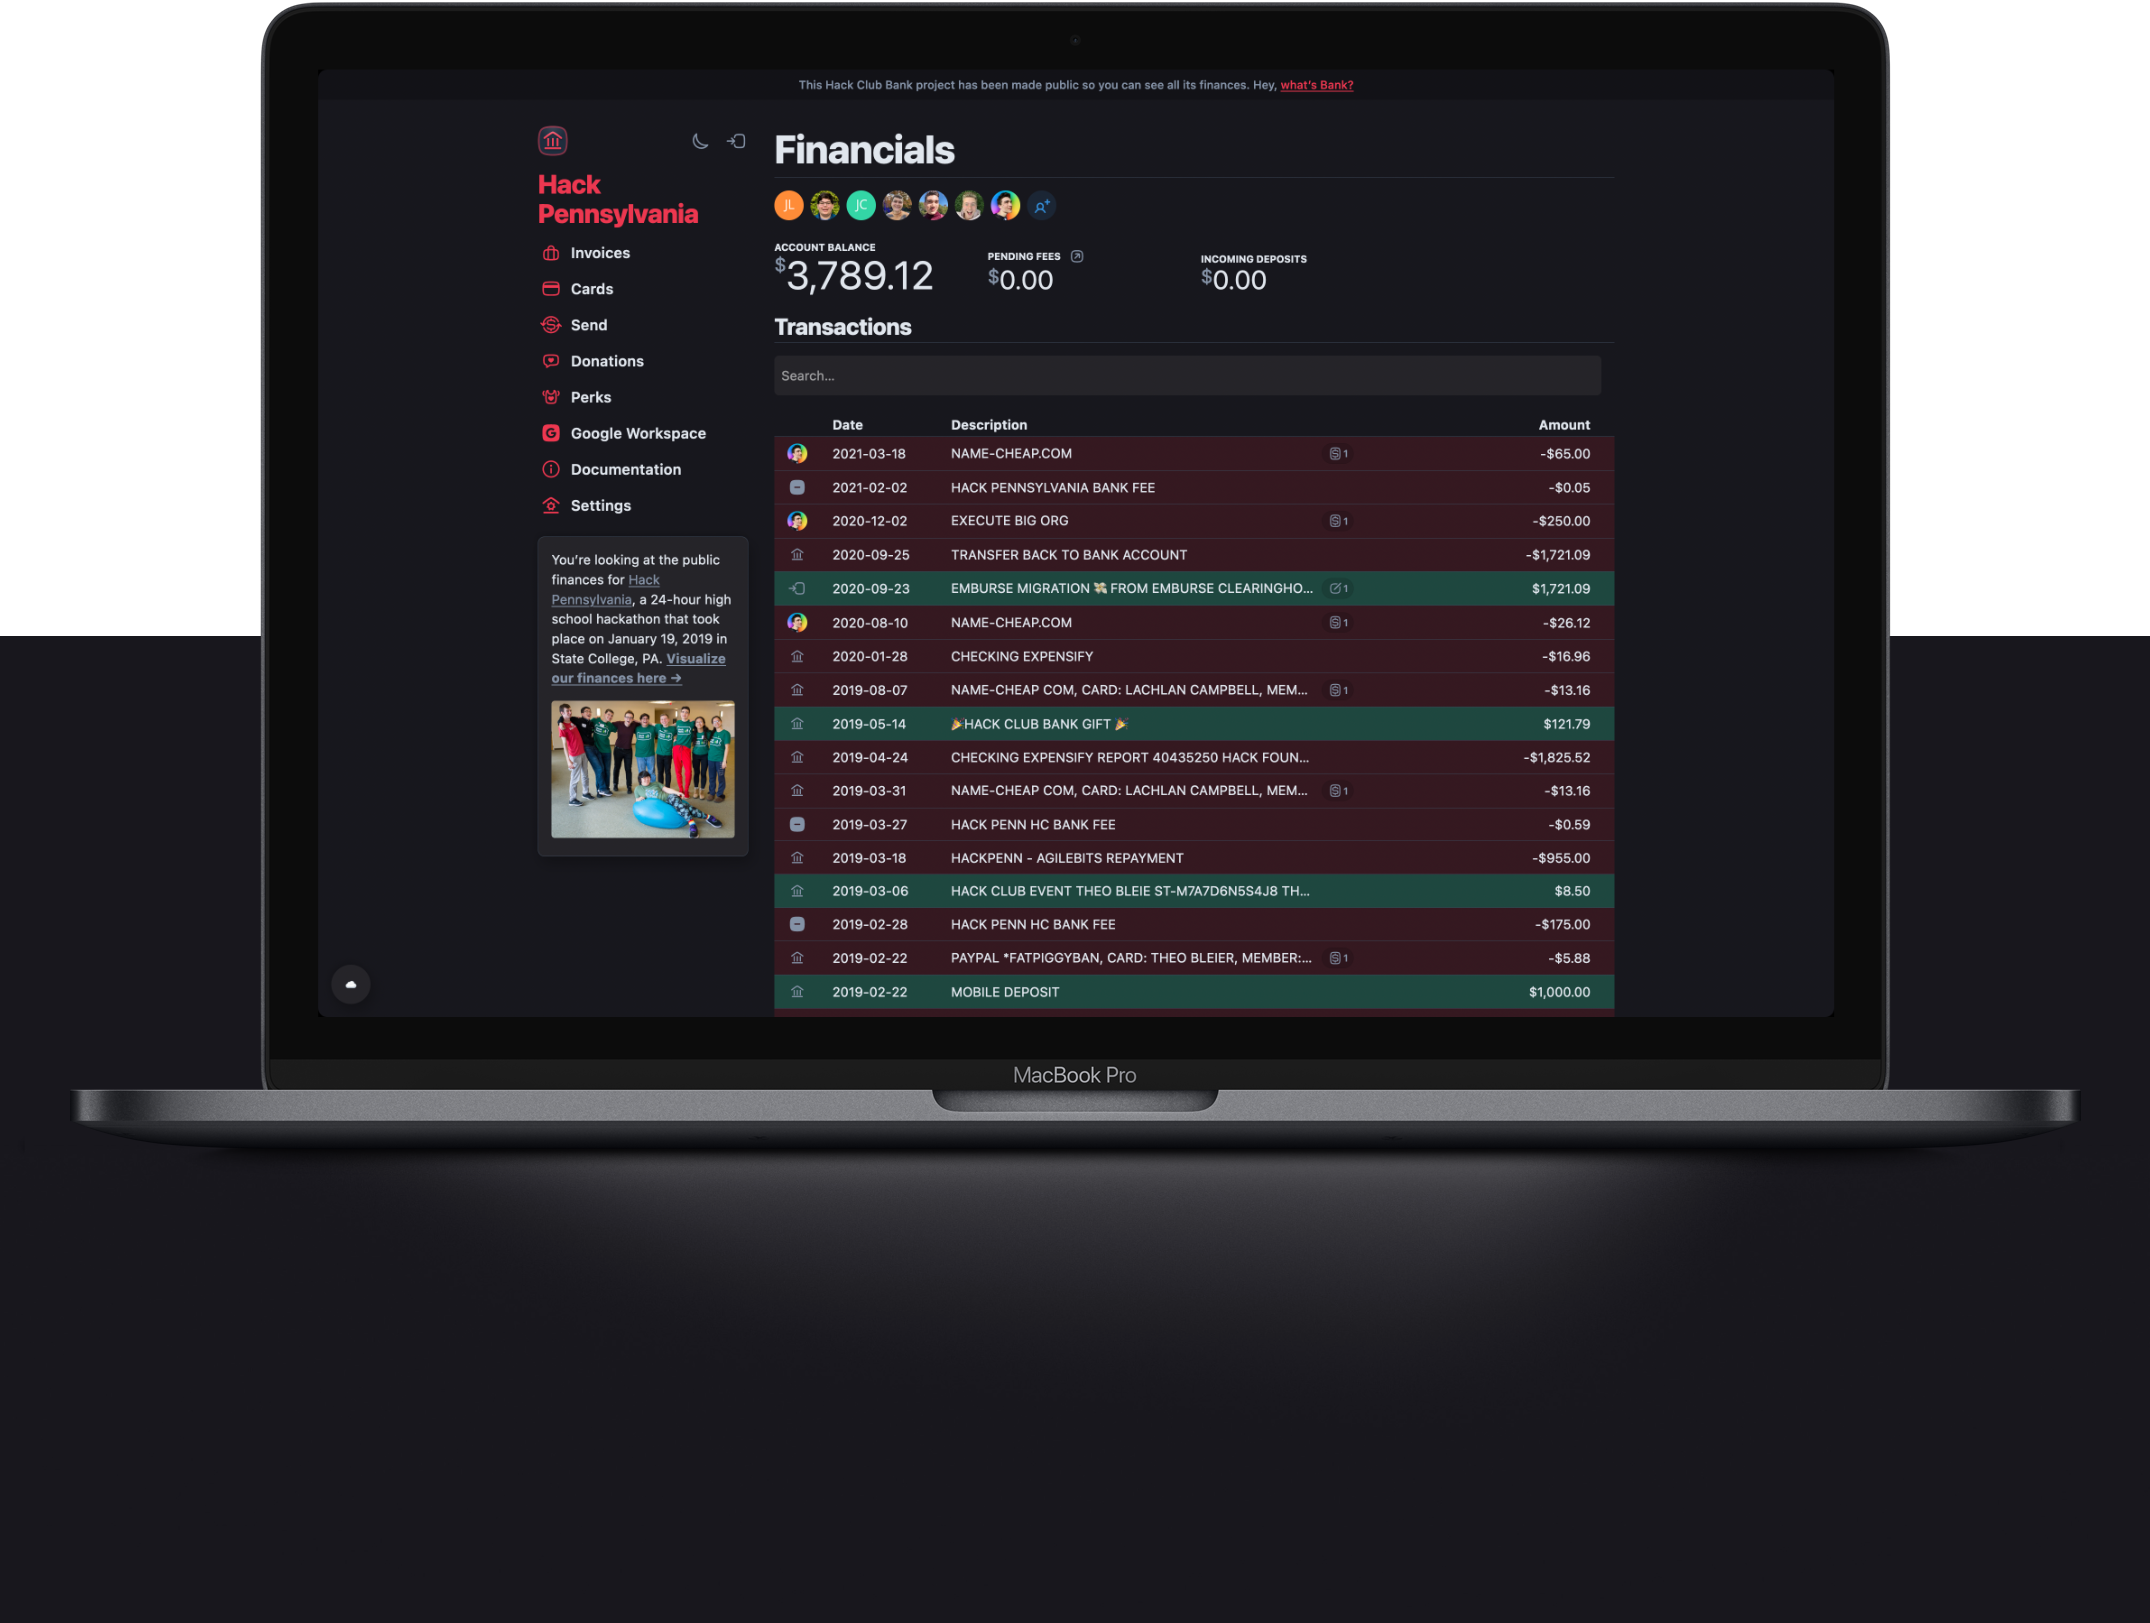
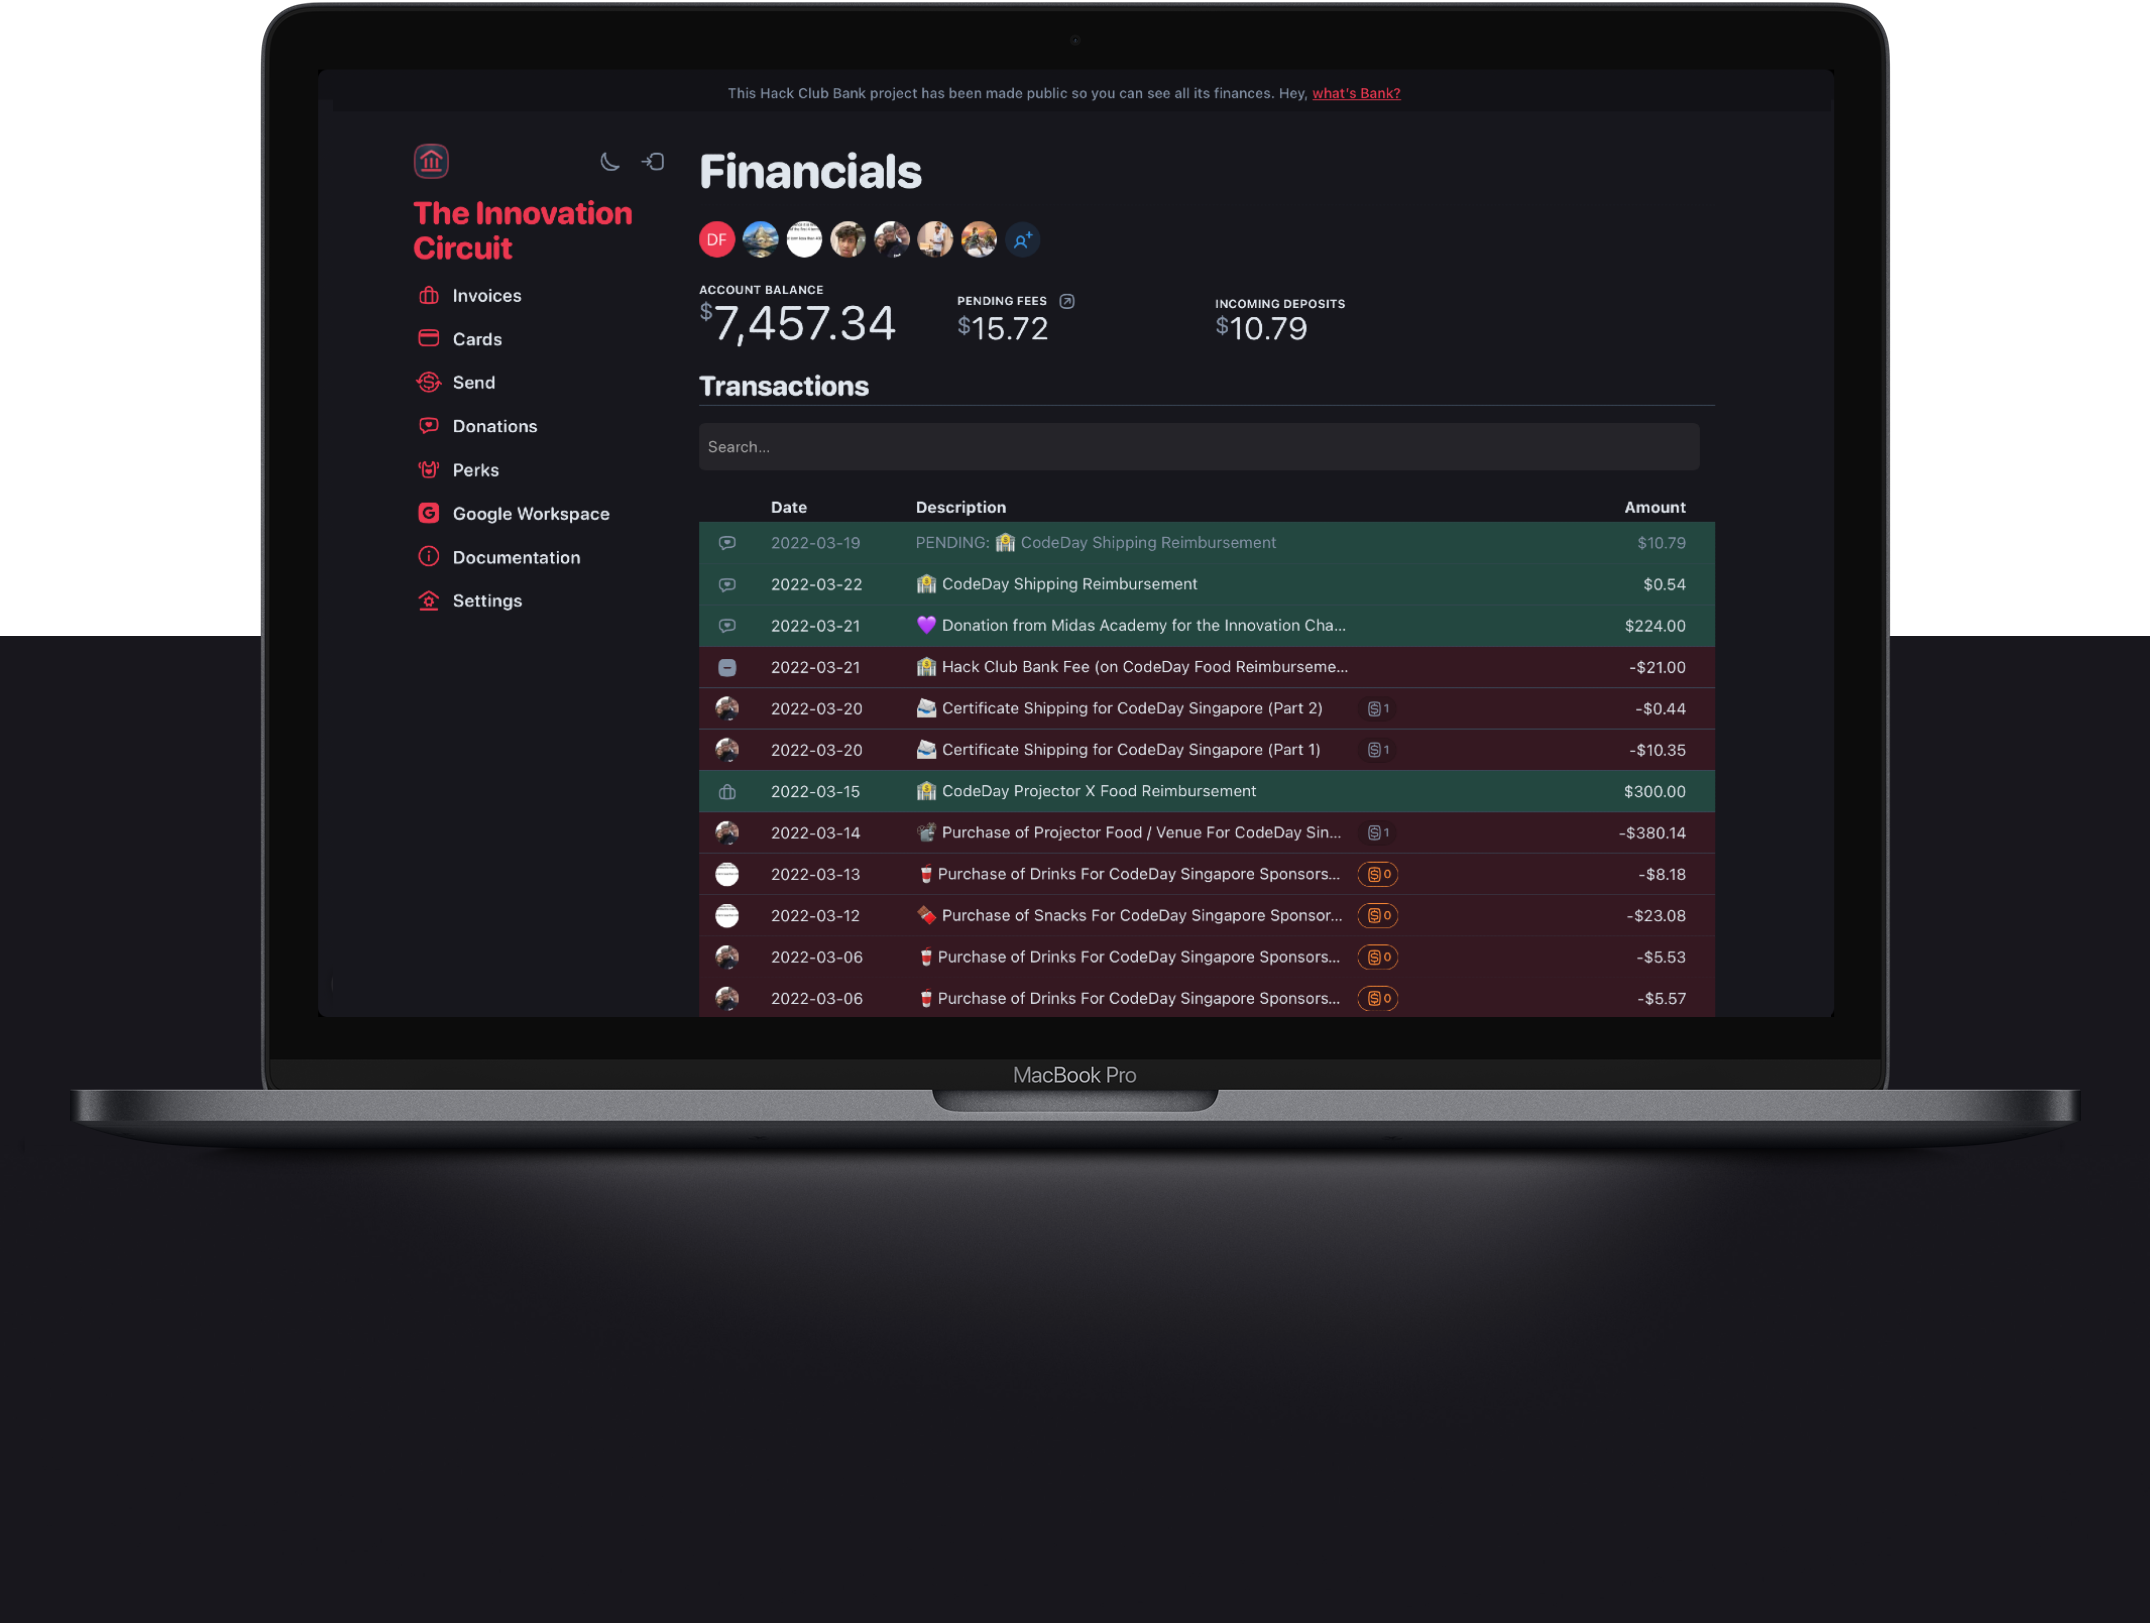
Update example Bank org to Innovation Circuit (#391)
* Update example Bank org to Innovation Circuit

* MAHacks is transparent 🔍

Changed region(s): [[0.187, 0.0308, 0.8102, 0.647], [0.5609, 0.154, 0.6233, 0.2157]]

diff --git a/components/bank/features.js b/components/bank/features.js
@@ -51,8 +51,8 @@ export default function Features({ partner = false }) {
             </ModuleDetails>
           </Box>
           <Laptop
-            href="https://bank.hackclub.com/hackpenn"
-            title="See Hack Pennsylvania’s finances in public"
+            href="https://bank.hackclub.com/the-innovation-circuit"
+            title="See The Innovation Circuit’s finances in public"
             sx={{
               gridColumn: [null, null, 'span 2'],
               gridRow: [null, null, 'span 2']
@@ -118,7 +118,7 @@ export default function Features({ partner = false }) {
             <Module
               icon="google"
               name="Google Workspace"
-              body="Get instant, free accounts for your team (like joy@hackpenn.com)."
+              body="Get instant, free accounts for your team (like sam@innovationcircuit.co)."
             />
           )}
           <Module

diff --git a/components/bank/testimonials.js b/components/bank/testimonials.js
@@ -34,6 +34,7 @@ const events = [
       'For our hackathon, Hack Club Bank has given us the tools to make sure our organization is professional with sponsors. Bank and their team have created an easily manageable resource to make sure any event is run successfully. We would highly recommend any organization be a part of the Hack Club ecosystem.'
   },
   {
+    transparency: 'mahacks',
     name: 'MAHacks',
     location: 'Boston, MA',
     organizer: 'Kat Huang',
